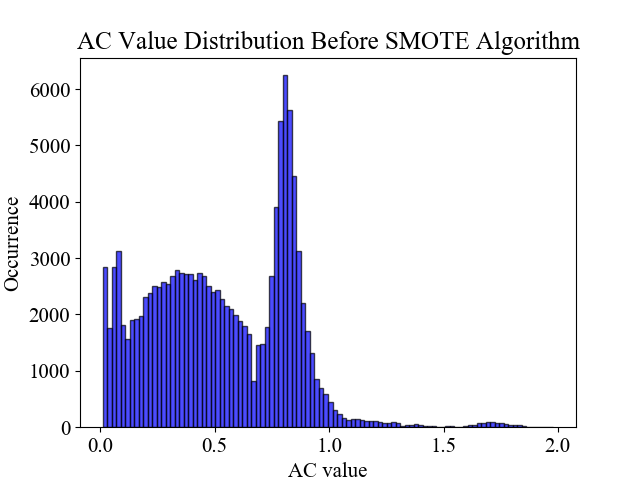
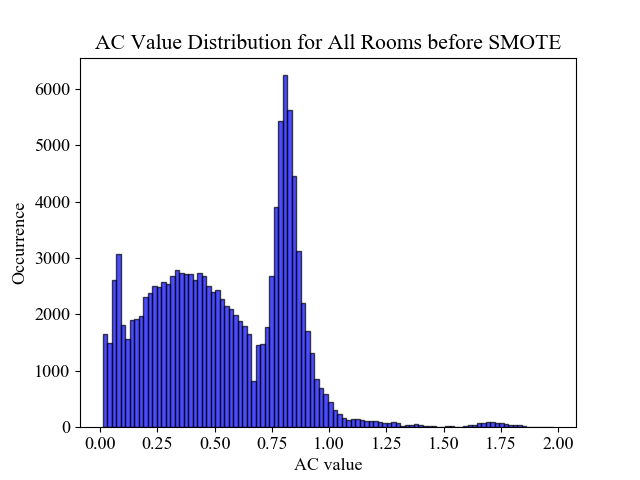
SMOTE plot mechanism fix

diff --git a/SMOTE_plot_demonstration.py b/SMOTE_plot_demonstration.py
@@ -22,8 +22,12 @@ data = pd.read_csv("data_compiled.csv", index_col=0)
 data = data[data.AC > 0].drop(['Time', 'Date', 'Hour'], axis=1).reset_index(drop=True)
 
 # Set some general settings of all the matplotlib.
-plt.rcParams.update({'font.size': 15})
+plt.rcParams.update({'font.size': 13})
 plt.rc('font', family='Times New Roman')
+
+# Set up two empty list to record the AC before and after for each room
+AC_before = []
+AC_after = []
 
 # ranging through all the rooms
 for room in tqdm(data['Location'].unique()):
@@ -39,6 +43,8 @@ for room in tqdm(data['Location'].unique()):
     plt.title("AC Value Distribution for Room {} Before SMOTE".format(room))
     plt.savefig('./SMOTE_room/room{}before.png'.format(room))
     plt.clf()
+
+    AC_before.extend(list(data_room['AC']))
 
     # Label all the AC data by 0.7, all AC above 0.7 will be marked as 1, otherwise 0. Split into X and y
     data_room['SMOTE_split'] = (data_room['AC'] > 0.7).astype('int')
@@ -56,3 +62,20 @@ for room in tqdm(data['Location'].unique()):
     plt.title("AC Value Distribution for Room {} After SMOTE".format(room))
     plt.savefig('./SMOTE_room/room{}after.png'.format(room))
     plt.clf()
+
+    AC_after.extend(room_data_smote['AC'])
+
+# With the AC values in each room before and after the SMOTE, we can plot a distribution histogram for all rooms.
+plt.hist(AC_before, bins=100, facecolor="blue", edgecolor="black", alpha=0.7)
+plt.xlabel("AC value")
+plt.ylabel("Occurrence")
+plt.title("AC Value Distribution for All Rooms before SMOTE")
+plt.savefig('./SMOTE_before.png')
+plt.clf()
+
+plt.hist(AC_after, bins=100, facecolor="blue", edgecolor="black", alpha=0.7)
+plt.xlabel("AC value")
+plt.ylabel("Occurrence")
+plt.title("AC Value Distribution for All Rooms after SMOTE")
+plt.savefig('./SMOTE_after.png')
+plt.clf()
